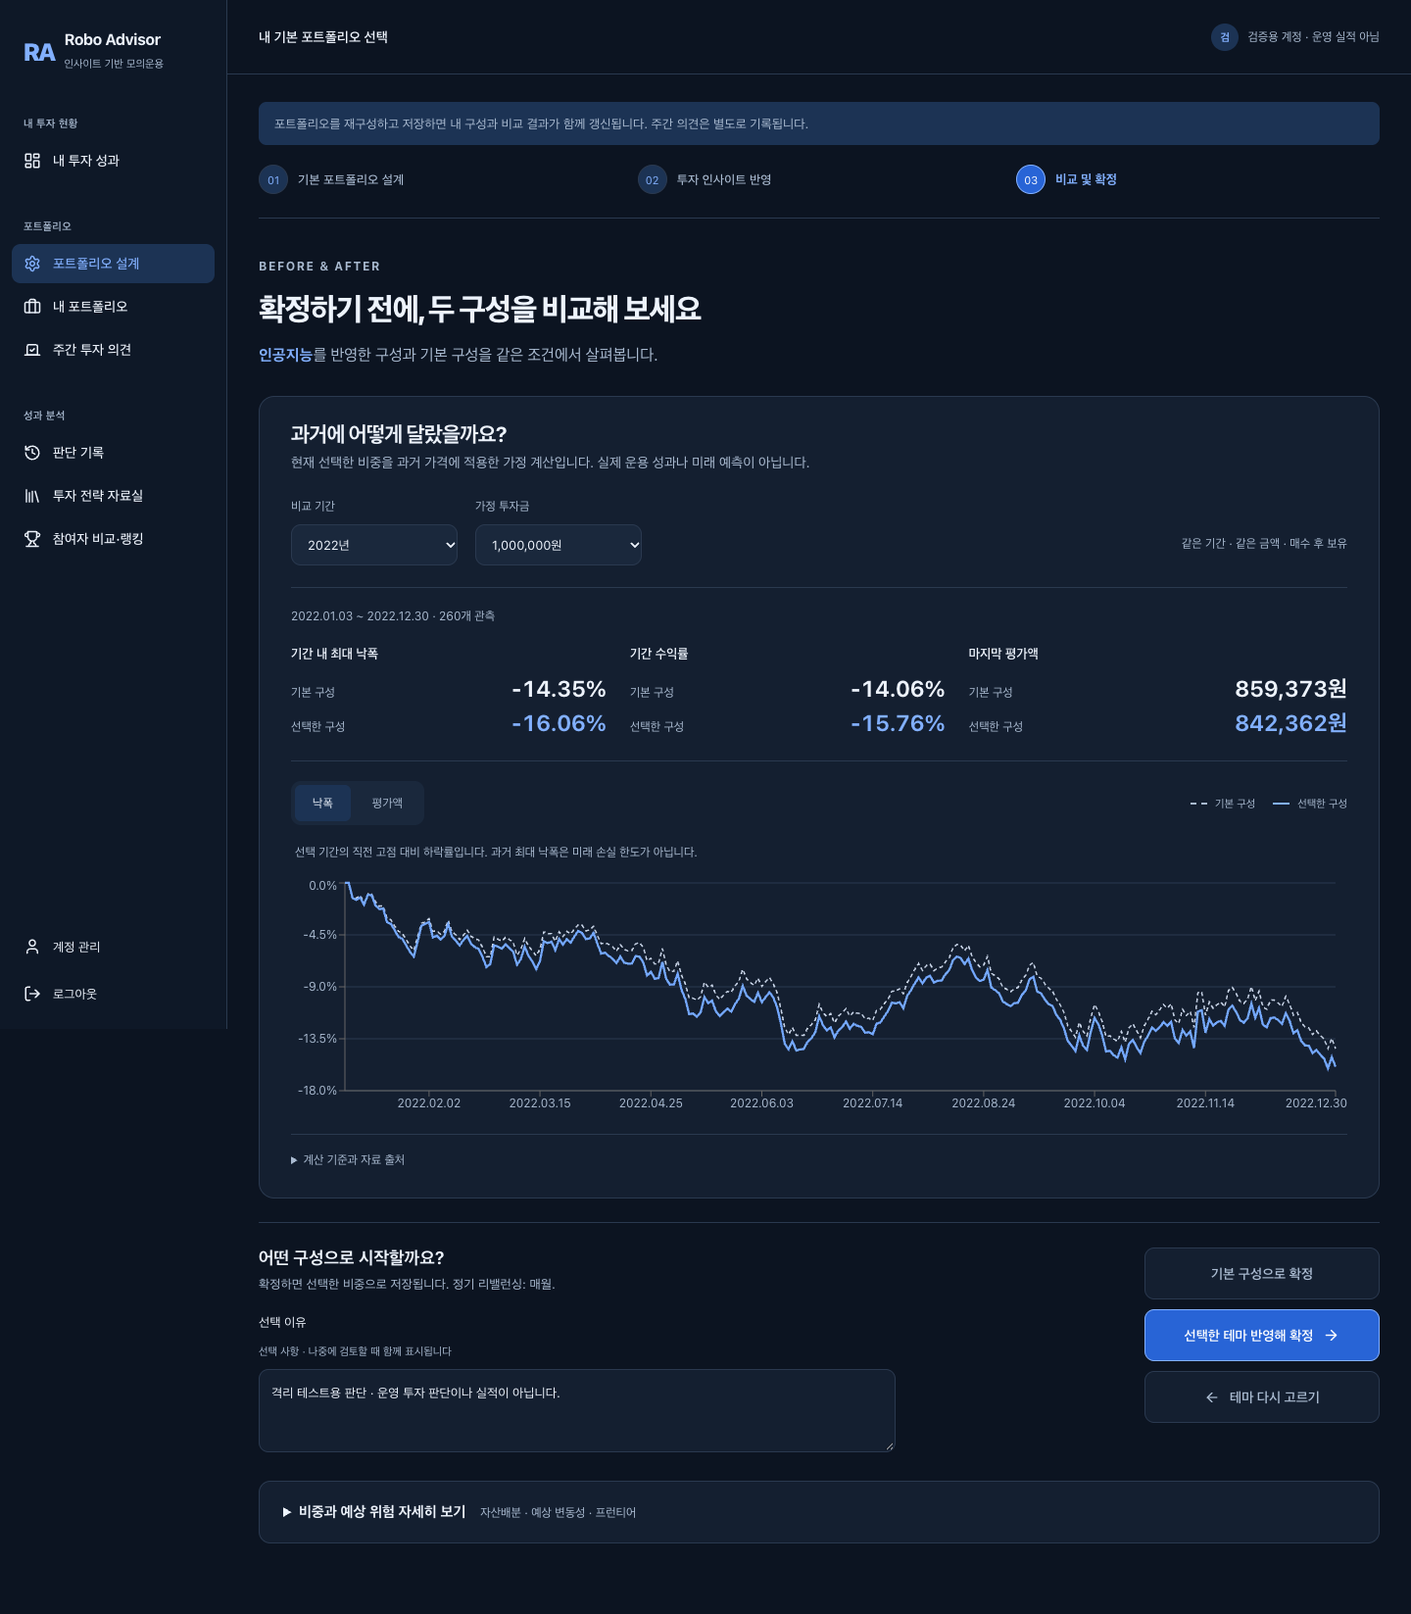
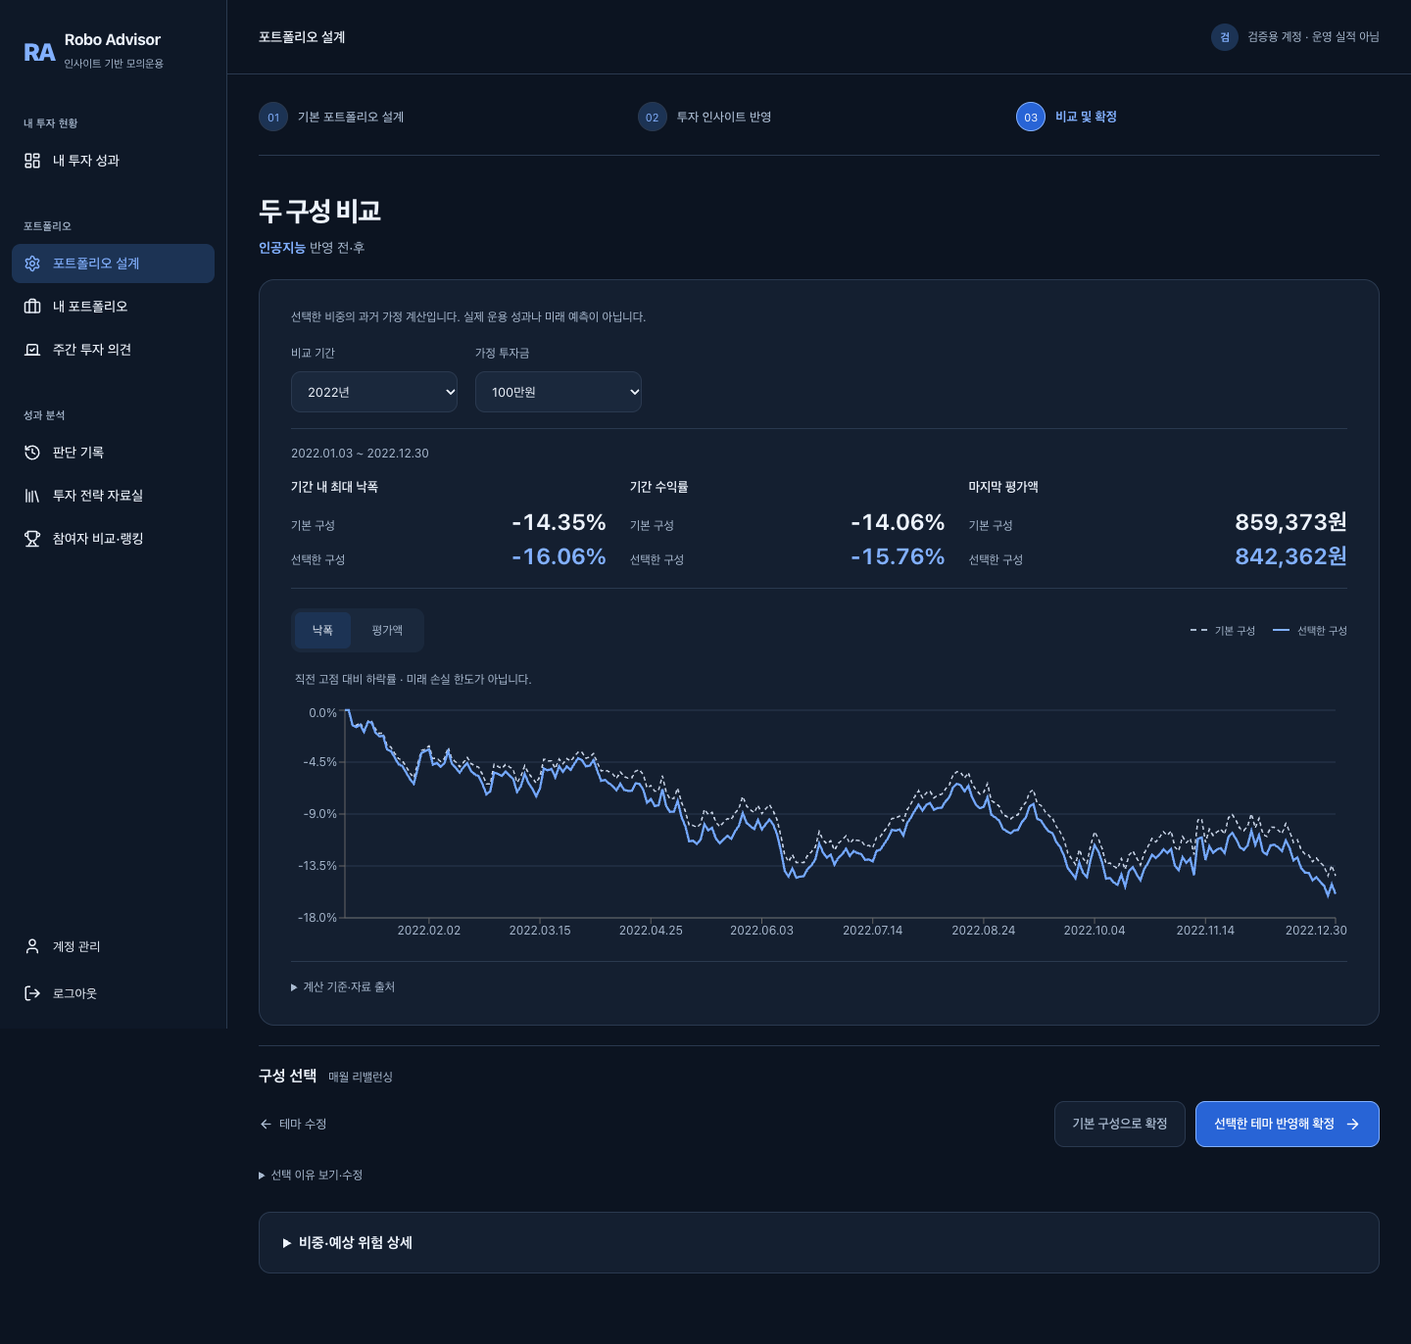
style: simplify preconfirmation comparison hierarchy

diff --git a/web/app/(app)/setup/portfolio/PreconfirmReview.tsx b/web/app/(app)/setup/portfolio/PreconfirmReview.tsx
@@ -30,38 +30,36 @@ export function PreconfirmReview({basePoint,themeIds,onBack,onComplete,onComplet
   const waiting=q.isFetching||pending;
   const canConfirm=!!d&&!waiting;
   return <div className={s.page}>
-    <header className={s.header}><div className={s.eyebrow}>BEFORE & AFTER</div><h1>확정하기 전에, 두 구성을 비교해 보세요</h1>
-      <p>{themeIds.length?<><strong>{themeIds.map(id=>THEME_INFO[id]?.name??id).join(" · ")}</strong>를 반영한 구성과 기본 구성을 같은 조건에서 살펴봅니다.</>:"선택한 위험 수준의 기본 구성입니다. 과거 움직임을 확인하고 시작하세요."}</p></header>
+    <header className={`${s.header} ${s.compareHeader}`}><h1>두 구성 비교</h1>
+      <p>{themeIds.length?<><strong>{themeIds.map(id=>THEME_INFO[id]?.name??id).join(" · ")}</strong> 반영 전·후</>:"추가 테마 없는 기본 구성"}</p></header>
     <section className={`${s.changes} ${s.rehearsal}`} aria-label="확정 전 과거 비교">
-      <div className={s.sectionHeading}><div><h2>과거에 어떻게 달랐을까요?</h2><p>현재 선택한 비중을 과거 가격에 적용한 가정 계산입니다. 실제 운용 성과나 미래 예측이 아닙니다.</p></div></div>
+      <p className={s.simulationNote}>선택한 비중의 과거 가정 계산입니다. 실제 운용 성과나 미래 예측이 아닙니다.</p>
       <div className={s.rehearsalControls}>
         <label>비교 기간<select aria-label="비교 기간" value={period} disabled={pending} onChange={e=>changePeriod(e.target.value)}>{options.map(p=><option key={p.id} value={p.id}>{p.label}</option>)}</select></label>
-        <label>가정 투자금<select aria-label="가정 투자금" value={amount} disabled={pending} onChange={e=>{setPeriods(options);setAmount(Number(e.target.value));}}>{[1_000_000,10_000_000,100_000_000].map(v=><option key={v} value={v}>{won(v)}</option>)}</select></label>
-        <span>같은 기간 · 같은 금액 · 매수 후 보유</span>
+        <label>가정 투자금<select aria-label="가정 투자금" value={amount} disabled={pending} onChange={e=>{setPeriods(options);setAmount(Number(e.target.value));}}>{[[1_000_000,"100만원"],[10_000_000,"1,000만원"],[100_000_000,"1억원"]].map(([v,label])=><option key={v} value={v}>{label}</option>)}</select></label>
       </div>
       {q.isError?<div className={s.rehearsalEmpty} role="alert"><p>과거 비교를 불러오지 못했습니다. 선택한 조건을 다시 조회해 주세요.</p><button className={s.back} onClick={()=>q.refetch()}>다시 조회</button></div>
         :!d?<div className={s.rehearsalEmpty} role="status">선택한 두 구성을 비교하고 있습니다.</div>
         :!available?<div className={s.rehearsalEmpty} role="status"><h3>과거 비교 자료 미확보</h3><p>{d.reason}</p><p>아래 비중과 예상 위험은 확인할 수 있지만, 과거 성과 비교 없이 확정하게 됩니다.</p></div>
-        :<><p className={s.rehearsalDates}>{fmtDate(d.period!.start)} ~ {fmtDate(d.period!.end)} · {d.period!.observations.toLocaleString()}개 관측</p>
+        :<><p className={s.rehearsalDates}>{fmtDate(d.period!.start)} ~ {fmtDate(d.period!.end)}</p>
           <div className={s.rehearsalMetrics} aria-label="과거 비교 결과">{([
             ["기간 내 최대 낙폭",fmtPct(d.base!.max_drawdown),fmtPct(d.personalized!.max_drawdown)],
             ["기간 수익률",fmtReturn(d.base!.cumulative_return),fmtReturn(d.personalized!.cumulative_return)],
             ["마지막 평가액",won(d.base!.end_value),won(d.personalized!.end_value)],
           ] as const).map(([title,base,personal])=><div key={title}><h3>{title}</h3><dl><div><dt>기본 구성</dt><dd>{base}</dd></div><div><dt>선택한 구성</dt><dd>{personal}</dd></div></dl></div>)}</div>
           <div className={s.rehearsalChartBar}><div role="group" aria-label="과거 비교 그래프"><button aria-pressed={view==="drawdown"} onClick={()=>setView("drawdown")}>낙폭</button><button aria-pressed={view==="value"} onClick={()=>setView("value")}>평가액</button></div><span><i/> 기본 구성 <b/> 선택한 구성</span></div>
-          <p className={s.explanation}>{view==="drawdown"?"선택 기간의 직전 고점 대비 하락률입니다. 과거 최대 낙폭은 미래 손실 한도가 아닙니다.":"두 구성에 같은 투자금을 적용한 평가액입니다. 비용·세금과 정기 리밸런싱은 반영하지 않았습니다."}</p>
+          <p className={s.explanation}>{view==="drawdown"?"직전 고점 대비 하락률 · 미래 손실 한도가 아닙니다.":"매수 후 보유 · 비용·세금·정기 리밸런싱 미반영"}</p>
           <div className={s.rehearsalChart}><PerformanceChart data={d.series} series={[{key:"base",label:"기본 구성",dataKey:view==="drawdown"?"base_drawdown":"base_value",...CORE_LINE,dash:"4 3"},{key:"personalized",label:"선택한 구성",dataKey:view==="drawdown"?"personalized_drawdown":"personalized_value",...MY_LINE}]}
             yFormat={view==="drawdown"?v=>fmtPct(v,1):v=>`${(v/10000).toLocaleString("ko-KR",{maximumFractionDigits:1})}만원`} yAxisWidth={view==="drawdown"?55:88} height={250} curve="linear" animate={false} connectNulls={false} showLegend={false} framed={false}/></div>
-          <details className={s.rehearsalMethod}><summary>계산 기준과 자료 출처</summary><p>시작일에 소수 수량으로 매수해 보유하는 가정입니다. 수수료·세금·현금 이자와 정기 리밸런싱을 반영하지 않습니다. 연도별 비교는 매년 첫 관측일부터 새로 시작합니다. 현재 선택을 과거에 적용한 결과이므로 당시 실행 가능한 전략의 실적이 아닙니다.</p><p>기존 원화 환산·조정 가격을 사용합니다. 미국국채·TIPS는 환헤지 대용가격으로 실제 환헤지 비용을 재현하지 않습니다. 자료 전처리를 포함하므로 모든 관측이 해당 자산의 새 거래 가격은 아닙니다.</p><p>{d.source?.version} · {d.source?.source}</p></details>
+          <details className={s.rehearsalMethod}><summary>계산 기준·자료 출처</summary><p>{d.period!.observations.toLocaleString()}개 관측 · 같은 기간과 투자금으로 비교합니다.</p><p>시작일에 소수 수량으로 매수해 보유하는 가정입니다. 수수료·세금·현금 이자와 정기 리밸런싱을 반영하지 않습니다. 연도별 비교는 매년 첫 관측일부터 새로 시작합니다. 현재 선택을 과거에 적용한 결과이므로 당시 실행 가능한 전략의 실적이 아닙니다.</p><p>기존 원화 환산·조정 가격을 사용합니다. 미국국채·TIPS는 환헤지 대용가격으로 실제 환헤지 비용을 재현하지 않습니다. 자료 전처리를 포함하므로 모든 관측이 해당 자산의 새 거래 가격은 아닙니다.</p><p>{d.source?.version} · {d.source?.source}</p></details>
         </>}
     </section>
     <footer className={`${s.footer} ${s.preconfirmFooter}`} aria-label="비교 후 구성 선택">
-      <div><strong>어떤 구성으로 시작할까요?</strong><p>확정하면 선택한 비중으로 저장됩니다.{rebalanceFrequency&&<span aria-label="확정 전 리밸런싱 주기"> 정기 리밸런싱: {REBALANCE_LABELS[rebalanceFrequency]}.</span>}</p>
-        {selectionReason&&<label className={s.selectionReason}>선택 이유 <span>선택 사항 · 나중에 검토할 때 함께 표시됩니다</span><textarea aria-label="확정 전 선택 이유" value={selectionReason.value} maxLength={1024} disabled={pending} onChange={e=>selectionReason.onChange(e.target.value)} placeholder="이 구성을 선택한 이유와 더 확인하고 싶은 점"/></label>}
-      </div>
-      <div className={s.preconfirmActions}>{themeIds.length>0&&<button className={s.back} onClick={onCompleteBase} disabled={!canConfirm}>기본 구성으로 확정</button>}<button className={s.confirm} onClick={onComplete} disabled={!canConfirm}>{pending?"설정 중…":themeIds.length?"선택한 테마 반영해 확정":"기본 구성으로 확정"}<ArrowRight size={17}/></button><button className={s.back} onClick={onBack} disabled={pending}><ArrowLeft size={16}/>테마 다시 고르기</button></div>
+      <div className={s.choiceHeading}><h2>구성 선택</h2>{rebalanceFrequency&&<span aria-label="확정 전 리밸런싱 주기">{REBALANCE_LABELS[rebalanceFrequency]} 리밸런싱</span>}</div>
+      <div className={s.preconfirmActions}><button className={s.editThemes} onClick={onBack} disabled={pending}><ArrowLeft size={15}/>테마 수정</button><div className={s.confirmChoices}>{themeIds.length>0&&<button className={s.back} onClick={onCompleteBase} disabled={!canConfirm}>기본 구성으로 확정</button>}<button className={s.confirm} onClick={onComplete} disabled={!canConfirm}>{pending?"설정 중…":themeIds.length?"선택한 테마 반영해 확정":"기본 구성으로 확정"}<ArrowRight size={17}/></button></div></div>
+      {selectionReason&&<details className={s.selectionReason}><summary>{selectionReason.value.trim()?"선택 이유 보기·수정":"선택 이유 남기기 (선택)"}</summary><textarea aria-label="확정 전 선택 이유" value={selectionReason.value} maxLength={1024} disabled={pending} onChange={e=>selectionReason.onChange(e.target.value)} placeholder="나중에 다시 검토할 선택 이유를 남겨 주세요."/></details>}
     </footer>
     {error&&<p className={s.error} role="alert">구성을 저장하지 못했습니다. 대기 주문 등 확정 조건을 확인하고 다시 시도해 주세요.</p>}
-    {d&&<details className={s.details}><summary>비중과 예상 위험 자세히 보기<span>자산배분 · 예상 변동성 · 프런티어</span></summary>{renderDetails(d.proposal)}</details>}
+    {d&&<details className={s.details}><summary>비중·예상 위험 상세</summary>{renderDetails(d.proposal)}</details>}
   </div>;
 }

diff --git a/web/app/(app)/setup/portfolio/review.module.css b/web/app/(app)/setup/portfolio/review.module.css
@@ -87,20 +87,26 @@
 .changes { margin-top:0; }
 
 .rehearsal{margin-top:0}
-.rehearsalControls{display:flex;align-items:end;gap:18px;padding:22px 0;border-bottom:1px solid var(--border)}
+.rehearsalControls{display:flex;align-items:end;gap:18px;padding:16px 0;border-bottom:1px solid var(--border)}
 .rehearsalControls label{display:grid;gap:8px;font-size:12px;color:var(--text-secondary);min-width:0}
 .rehearsalControls select{min-width:170px;max-width:100%;border:1px solid var(--border);border-radius:var(--radius-control);background:var(--surface-subtle);color:var(--text-primary);padding:11px 12px;font-size:13px}
-.rehearsalControls>span{font-size:12px;color:var(--text-secondary);margin-left:auto;padding-bottom:12px}
-.rehearsalDates{font-size:12px;color:var(--text-secondary);margin:18px 0}
-.rehearsalMetrics{display:grid;grid-template-columns:1fr 1fr 1.2fr;gap:24px;padding-bottom:24px;border-bottom:1px solid var(--border)}
+.rehearsalDates{font-size:12px;color:var(--text-secondary);margin:14px 0}
+.rehearsalMetrics{display:grid;grid-template-columns:1fr 1fr 1.2fr;gap:24px;padding-bottom:18px;border-bottom:1px solid var(--border)}
 .rehearsalMetrics>div{min-width:0}.rehearsalMetrics h3{font-size:13px;font-weight:550;margin-bottom:14px}.rehearsalMetrics dl{display:grid;gap:10px}.rehearsalMetrics dl>div{display:flex;align-items:baseline;justify-content:space-between;gap:8px}.rehearsalMetrics dt{font-size:12px;color:var(--text-secondary);white-space:nowrap}.rehearsalMetrics dd{font-size:23px;font-variant-numeric:tabular-nums;font-weight:650;white-space:nowrap}.rehearsalMetrics dl>div:last-child dd{color:var(--brand)}
 .rehearsalChartBar{display:flex;justify-content:space-between;align-items:center;gap:12px;margin-top:20px}.rehearsalChartBar>div{display:flex;gap:4px;background:var(--surface-subtle);padding:4px;border-radius:var(--radius-control)}.rehearsalChartBar button{padding:8px 18px;border-radius:6px;color:var(--text-secondary);font-size:12px}.rehearsalChartBar button[aria-pressed=true]{background:var(--brand-soft);color:var(--text-primary)}.rehearsalChartBar>span{display:flex;align-items:center;gap:8px;color:var(--text-secondary);font-size:11px}.rehearsalChartBar i,.rehearsalChartBar b{display:inline-block;width:17px;border-top:2px dashed var(--text-secondary)}.rehearsalChartBar b{border-top-style:solid;border-color:var(--brand);margin-left:10px}.rehearsal .explanation{margin-bottom:12px}
 .rehearsalEmpty{min-height:280px;display:flex;flex-direction:column;align-items:center;justify-content:center;gap:15px;text-align:center;font-size:14px;line-height:1.8;color:var(--text-secondary)}
 .rehearsalMethod{border-top:1px solid var(--border);margin-top:14px;padding-top:15px;font-size:12px;color:var(--text-secondary);line-height:1.8}.rehearsalMethod summary{cursor:pointer}.rehearsalMethod p{margin:10px 0;overflow-wrap:anywhere}
-.preconfirmFooter{align-items:start;margin:24px 0}.preconfirmFooter>div:first-child{flex:1;min-width:0}.preconfirmActions{display:grid;gap:10px;min-width:240px}.preconfirmActions button{justify-content:center}.selectionReason{display:grid;gap:8px;font-size:13px;margin-top:18px;max-width:650px}.selectionReason span{color:var(--text-secondary);font-size:11px}.selectionReason textarea{background:var(--surface);color:var(--text-primary);padding:12px;border:1px solid var(--border);border-radius:var(--radius-control);min-height:85px;width:100%;resize:vertical;font-size:13px;line-height:1.7}
+.compareHeader{margin-bottom:20px}.compareHeader h1{font-size:28px}.compareHeader p{margin-top:6px;font-size:14px}
+.simulationNote{font-size:12px;line-height:1.7;color:var(--text-secondary)}
+.preconfirmFooter{display:block;margin:20px 0;padding-top:20px}
+.choiceHeading{display:flex;align-items:baseline;gap:12px}.choiceHeading h2{font-size:16px;font-weight:650}.choiceHeading span{font-size:12px;color:var(--text-secondary)}
+.preconfirmActions{display:flex;align-items:center;justify-content:space-between;gap:16px;margin-top:14px}.confirmChoices{display:flex;gap:10px}.confirmChoices button{padding:12px 18px;justify-content:center;font-size:13px}
+.editThemes{display:inline-flex;align-items:center;gap:6px;font-size:13px;color:var(--text-secondary);padding:10px 0;flex-shrink:0}.editThemes:hover{color:var(--text-primary)}
+.preconfirmActions button:disabled{opacity:.55;cursor:not-allowed}
+.selectionReason{font-size:12px;margin-top:18px;color:var(--text-secondary);max-width:650px}.selectionReason summary{cursor:pointer;width:fit-content}.selectionReason textarea{display:block;margin-top:12px;background:var(--surface);color:var(--text-primary);padding:12px;border:1px solid var(--border);border-radius:var(--radius-control);min-height:85px;width:100%;resize:vertical;font-size:13px;line-height:1.7}
 .page :is(select,textarea,button,summary):focus-visible{outline:2px solid var(--brand);outline-offset:4px}
-@media(max-width:1200px){.rehearsalMetrics dd{font-size:19px}.rehearsalMetrics dl>div{flex-wrap:wrap}.rehearsalControls>span{display:none}}
-@media(max-width:650px){.rehearsalControls{display:grid;grid-template-columns:1fr 1fr;gap:12px}.rehearsalControls select{min-width:0;width:100%;font-size:12px;padding:10px 6px}.rehearsalMetrics{grid-template-columns:1fr 1fr;gap:22px 16px}.rehearsalMetrics>div:first-child{grid-column:1/-1}.rehearsalMetrics>div:first-child dl{grid-template-columns:1fr 1fr}.rehearsalMetrics dl>div{display:grid;gap:5px}.rehearsalMetrics>div:first-child dd{font-size:28px}.rehearsalMetrics dd{font-size:17px}.rehearsalMetrics dt{font-size:11px}.rehearsalChartBar button{padding:7px 10px}.rehearsalChartBar>span{gap:5px;font-size:10px}.rehearsalChartBar i,.rehearsalChartBar b{width:10px}.preconfirmFooter{flex-direction:column}.preconfirmFooter>div,.preconfirmActions{width:100%;min-width:0}}
+@media(max-width:1200px){.rehearsalMetrics dd{font-size:19px}.rehearsalMetrics dl>div{flex-wrap:wrap}}
+@media(max-width:650px){.rehearsalControls{display:grid;grid-template-columns:1fr 1fr;gap:12px}.rehearsalControls select{min-width:0;width:100%;font-size:12px;padding:10px 6px}.rehearsalMetrics{grid-template-columns:1fr 1fr;gap:22px 16px}.rehearsalMetrics>div:first-child{grid-column:1/-1}.rehearsalMetrics>div:first-child dl{grid-template-columns:1fr 1fr}.rehearsalMetrics dl>div{display:grid;gap:5px}.rehearsalMetrics>div:first-child dd{font-size:28px}.rehearsalMetrics dd{font-size:17px}.rehearsalMetrics dt{font-size:11px}.rehearsalChartBar button{padding:7px 10px}.rehearsalChartBar>span{gap:5px;font-size:10px}.rehearsalChartBar i,.rehearsalChartBar b{width:10px}.preconfirmActions{align-items:stretch;flex-direction:column-reverse;gap:8px}.confirmChoices{display:grid;grid-template-columns:1fr;width:100%}.editThemes{align-self:flex-start}.compareHeader h1{font-size:25px}}
 
 .rehearsalChart{min-width:0;overflow:hidden}
 .changeGrid>*{min-width:0}.riskValues{flex-wrap:wrap}.details{min-width:0}.details>.page{padding:0 12px 12px}

diff --git a/web/e2e/preconfirm-rehearsal.spec.ts b/web/e2e/preconfirm-rehearsal.spec.ts
@@ -18,7 +18,7 @@ for(const [index,choice] of ['base','themes'].entries())test(`real API: compare 
   await expect(ai).toBeVisible();
   if(await ai.getAttribute('aria-pressed')!=='true')await ai.click();
   await page.getByRole('button',{name:'다음: 변경 전·후 비교'}).click();
-  await expect(page.getByRole('heading',{name:'확정하기 전에, 두 구성을 비교해 보세요'})).toBeVisible();
+  await expect(page.getByRole('heading',{name:'두 구성 비교'})).toBeVisible();
   const before=counts();
   await expect(page.getByRole('button',{name:'선택한 테마 반영해 확정'})).toBeEnabled();
   await page.getByLabel('비교 기간').selectOption('2022');
@@ -39,11 +39,13 @@ for(const [index,choice] of ['base','themes'].entries())test(`real API: compare 
     await page.setViewportSize({width:320,height:740});await expect.poll(()=>page.evaluate(()=>document.documentElement.scrollWidth<=innerWidth)).toBe(true);
     await page.setViewportSize({width:1440,height:1050});
   }
-  await page.getByText('비중과 예상 위험 자세히 보기',{exact:false}).click();
+  await page.getByText('비중·예상 위험 상세',{exact:false}).click();
   await expect(page.getByRole('heading',{name:'예상 변동성의 변화'})).toBeVisible();
   if(index===0){await page.setViewportSize({width:320,height:740});await page.screenshot({path:path.join(evidence,'details-mobile.png'),fullPage:true});
     await expect.poll(()=>page.evaluate(()=>document.documentElement.scrollWidth<=innerWidth)).toBe(true);await page.setViewportSize({width:1440,height:1050});}
   const reason=`격리 테스트: ${choice} 선택 근거. 실제 운용 판단 아님.`;
+  await expect(page.getByLabel('확정 전 선택 이유')).not.toBeVisible();
+  await page.getByText(/^선택 이유 (남기기|보기·수정)/).click();
   await page.getByLabel('확정 전 선택 이유').fill(reason);
   await page.getByRole('button',{name:choice==='base'?'기본 구성으로 확정':'선택한 테마 반영해 확정',exact:true}).click();
   await expect(page).toHaveURL(/\/portfolio$/);

diff --git a/web/app/(app)/setup/portfolio/page.tsx b/web/app/(app)/setup/portfolio/page.tsx
@@ -196,7 +196,7 @@ function SetupPortfolioInner({market = false}: {market?: boolean}) {
   const assetWeights = [...selected.weights].sort((a, b) => b.weight - a.weight);
 
   return (
-    <AppShell headerTitle="내 기본 포트폴리오 선택" setup>
+    <AppShell headerTitle={step === "review" ? "포트폴리오 설계" : "내 기본 포트폴리오 선택"} setup hideDesignNotice={step === "review"}>
       <SetupProgress step={step} />
       {step === "risk" && saveError && <p role="alert" className="text-negative">선택 내용을 저장하지 못했습니다. 다시 시도해 주세요.</p>}
       {step === "risk" && (

diff --git a/docs/INTEGRATION_EXECUTION.md b/docs/INTEGRATION_EXECUTION.md
@@ -897,3 +897,10 @@ Validation: 123 frontend tests and production build/type checking passed.
 근거·계약·격리 화면·재현 절차: [PRECONFIRM_REHEARSAL.md](PRECONFIRM_REHEARSAL.md).
 
 검증: SQLite 748 통과(환경별 57 제외), 프런트 146, 실제 API 브라우저 5개, 타입 검사·production 빌드 통과. 390/320px 및 펼친 상세 검증 완료. 테스트가 재생성한 기존 보고서·공분산·기존 화면 증거·Next 선언은 제외했다.
+
+## 2026-10-26 — 확정 전 비교의 문구·시각 위계 정리
+
+중복 제목·설계 배너를 줄이고 관측 개수를 상세로 옮겼다. 선택 이유는 접힌
+선택 입력으로, 테마 수정은 텍스트 버튼으로 표시한다. 확정 버튼 두 개를 묶고
+기존 색상·숫자·금융 계산은 유지했다. 프런트 146개, 실제 API 브라우저 5개,
+타입 검사·production 빌드 통과. 새 화면은 PRECONFIRM_REHEARSAL.md에 기록했다.
